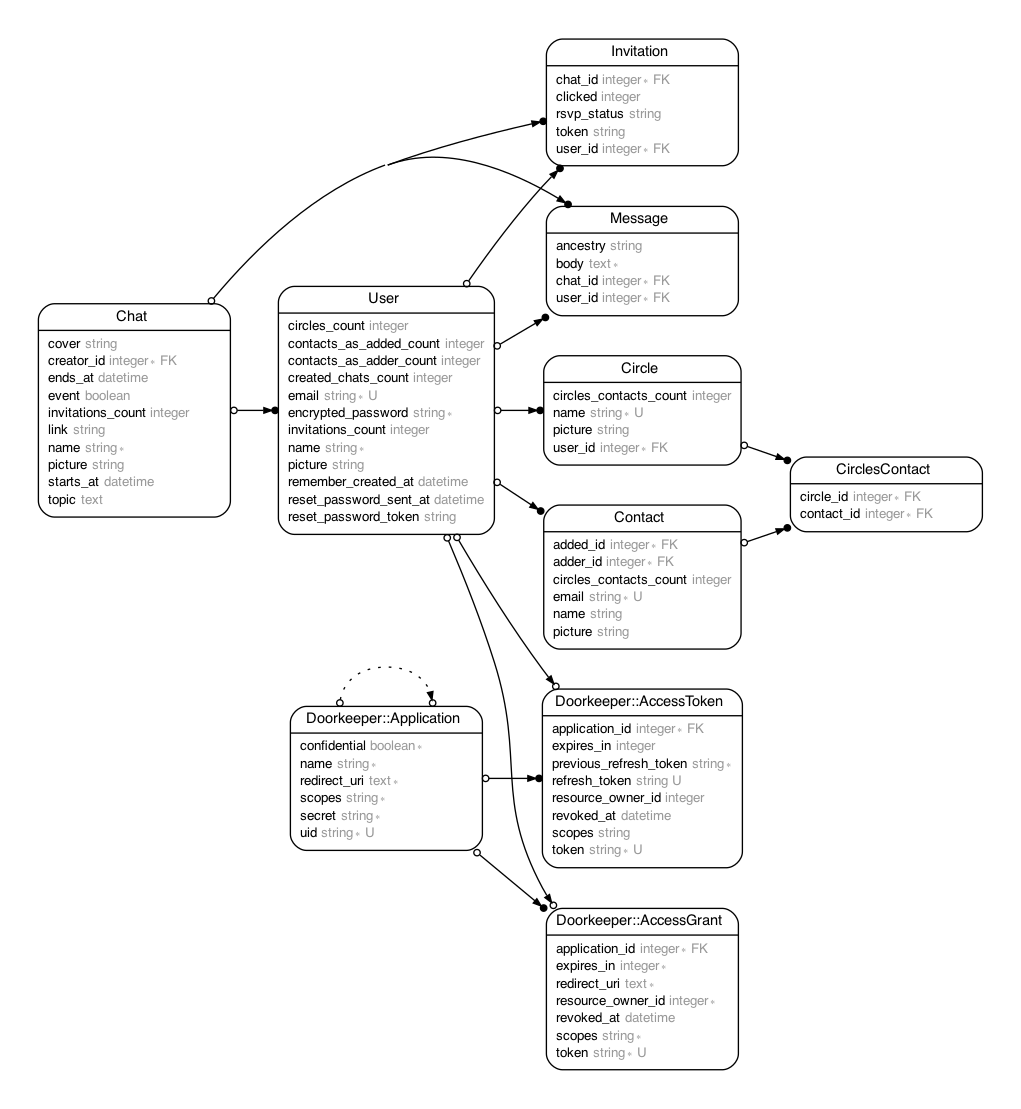
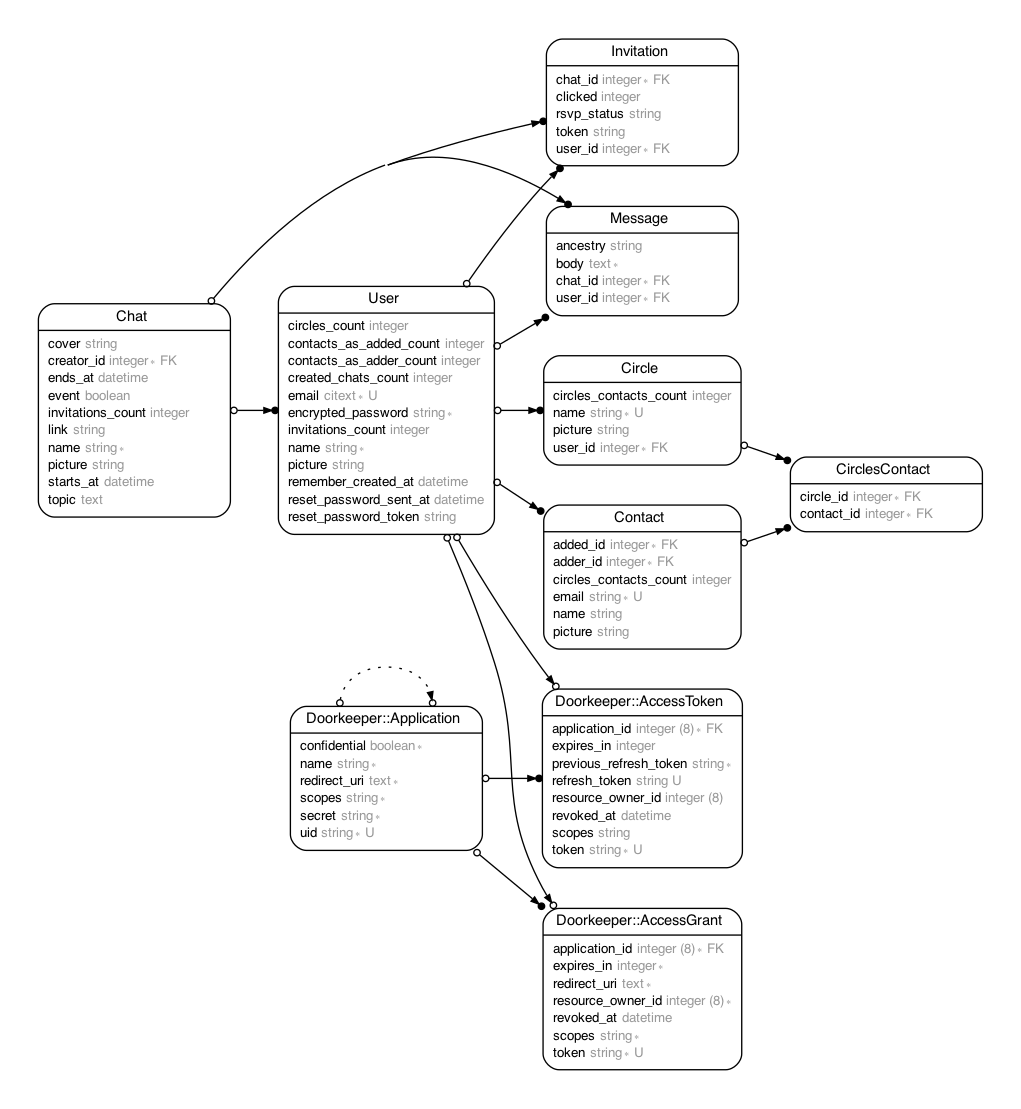
Make UUID default

Changed region(s): [[0.5162, 0.7971, 0.7287, 0.9504], [0.668, 0.6438, 0.6983, 0.6745]]

diff --git a/db/schema.rb b/db/schema.rb
@@ -12,13 +12,18 @@
 
 ActiveRecord::Schema.define(version: 2021_07_01_211548) do
 
+  # These are extensions that must be enabled in order to support this database
+  enable_extension "citext"
+  enable_extension "pgcrypto"
+  enable_extension "plpgsql"
+
   create_table "active_admin_comments", force: :cascade do |t|
     t.string "namespace"
     t.text "body"
     t.string "resource_type"
-    t.integer "resource_id"
+    t.bigint "resource_id"
     t.string "author_type"
-    t.integer "author_id"
+    t.bigint "author_id"
     t.datetime "created_at", precision: 6, null: false
     t.datetime "updated_at", precision: 6, null: false
     t.index ["author_type", "author_id"], name: "index_active_admin_comments_on_author_type_and_author_id"
@@ -110,8 +115,8 @@ ActiveRecord::Schema.define(version: 2021_07_01_211548) do
   end
 
   create_table "oauth_access_grants", force: :cascade do |t|
-    t.integer "resource_owner_id", null: false
-    t.integer "application_id", null: false
+    t.bigint "resource_owner_id", null: false
+    t.bigint "application_id", null: false
     t.string "token", null: false
     t.integer "expires_in", null: false
     t.text "redirect_uri", null: false
@@ -124,8 +129,8 @@ ActiveRecord::Schema.define(version: 2021_07_01_211548) do
   end
 
   create_table "oauth_access_tokens", force: :cascade do |t|
-    t.integer "resource_owner_id"
-    t.integer "application_id", null: false
+    t.bigint "resource_owner_id"
+    t.bigint "application_id", null: false
     t.string "token", null: false
     t.string "refresh_token"
     t.integer "expires_in"
@@ -156,7 +161,7 @@ ActiveRecord::Schema.define(version: 2021_07_01_211548) do
     t.string "picture"
     t.datetime "created_at", precision: 6, null: false
     t.datetime "updated_at", precision: 6, null: false
-    t.string "email", default: "", null: false
+    t.citext "email", default: "", null: false
     t.string "encrypted_password", default: "", null: false
     t.string "reset_password_token"
     t.datetime "reset_password_sent_at"

diff --git a/app/models/user.rb b/app/models/user.rb
@@ -2,12 +2,12 @@
 #
 # Table name: users
 #
-#  id                      :integer          not null, primary key
+#  id                      :bigint           not null, primary key
 #  circles_count           :integer
 #  contacts_as_added_count :integer
 #  contacts_as_adder_count :integer
 #  created_chats_count     :integer
-#  email                   :string           default(""), not null
+#  email                   :citext           default(""), not null
 #  encrypted_password      :string           default(""), not null
 #  invitations_count       :integer
 #  name                    :string

diff --git a/spec/models/user_spec.rb b/spec/models/user_spec.rb
@@ -2,12 +2,12 @@
 #
 # Table name: users
 #
-#  id                      :integer          not null, primary key
+#  id                      :bigint           not null, primary key
 #  circles_count           :integer
 #  contacts_as_added_count :integer
 #  contacts_as_adder_count :integer
 #  created_chats_count     :integer
-#  email                   :string           default(""), not null
+#  email                   :citext           default(""), not null
 #  encrypted_password      :string           default(""), not null
 #  invitations_count       :integer
 #  name                    :string

diff --git a/app/models/circles_contact.rb b/app/models/circles_contact.rb
@@ -2,7 +2,7 @@
 #
 # Table name: circles_contacts
 #
-#  id         :integer          not null, primary key
+#  id         :bigint           not null, primary key
 #  created_at :datetime         not null
 #  updated_at :datetime         not null
 #  circle_id  :integer          not null
@@ -15,8 +15,8 @@
 #
 # Foreign Keys
 #
-#  circle_id   (circle_id => circles.id)
-#  contact_id  (contact_id => contacts.id)
+#  fk_rails_...  (circle_id => circles.id)
+#  fk_rails_...  (contact_id => contacts.id)
 #
 class CirclesContact < ApplicationRecord
   # Direct associations

diff --git a/app/models/contact.rb b/app/models/contact.rb
@@ -2,7 +2,7 @@
 #
 # Table name: contacts
 #
-#  id                     :integer          not null, primary key
+#  id                     :bigint           not null, primary key
 #  circles_contacts_count :integer
 #  email                  :string
 #  name                   :string
@@ -19,8 +19,8 @@
 #
 # Foreign Keys
 #
-#  added_id  (added_id => users.id)
-#  adder_id  (adder_id => users.id)
+#  fk_rails_...  (added_id => users.id)
+#  fk_rails_...  (adder_id => users.id)
 #
 class Contact < ApplicationRecord
   # Direct associations

diff --git a/spec/models/circles_contact_spec.rb b/spec/models/circles_contact_spec.rb
@@ -2,7 +2,7 @@
 #
 # Table name: circles_contacts
 #
-#  id         :integer          not null, primary key
+#  id         :bigint           not null, primary key
 #  created_at :datetime         not null
 #  updated_at :datetime         not null
 #  circle_id  :integer          not null
@@ -15,8 +15,8 @@
 #
 # Foreign Keys
 #
-#  circle_id   (circle_id => circles.id)
-#  contact_id  (contact_id => contacts.id)
+#  fk_rails_...  (circle_id => circles.id)
+#  fk_rails_...  (contact_id => contacts.id)
 #
 require "rails_helper"
 

diff --git a/spec/models/contact_spec.rb b/spec/models/contact_spec.rb
@@ -2,7 +2,7 @@
 #
 # Table name: contacts
 #
-#  id                     :integer          not null, primary key
+#  id                     :bigint           not null, primary key
 #  circles_contacts_count :integer
 #  email                  :string
 #  name                   :string
@@ -19,8 +19,8 @@
 #
 # Foreign Keys
 #
-#  added_id  (added_id => users.id)
-#  adder_id  (adder_id => users.id)
+#  fk_rails_...  (added_id => users.id)
+#  fk_rails_...  (adder_id => users.id)
 #
 require "rails_helper"
 

diff --git a/app/models/message.rb b/app/models/message.rb
@@ -2,7 +2,7 @@
 #
 # Table name: messages
 #
-#  id         :integer          not null, primary key
+#  id         :bigint           not null, primary key
 #  ancestry   :string
 #  body       :text
 #  created_at :datetime         not null
@@ -17,8 +17,8 @@
 #
 # Foreign Keys
 #
-#  chat_id  (chat_id => chats.id)
-#  user_id  (user_id => users.id)
+#  fk_rails_...  (chat_id => chats.id)
+#  fk_rails_...  (user_id => users.id)
 #
 class Message < ApplicationRecord
   # Direct associations

diff --git a/app/models/invitation.rb b/app/models/invitation.rb
@@ -2,7 +2,7 @@
 #
 # Table name: invitations
 #
-#  id          :integer          not null, primary key
+#  id          :bigint           not null, primary key
 #  clicked     :integer
 #  rsvp_status :string
 #  token       :string
@@ -18,8 +18,8 @@
 #
 # Foreign Keys
 #
-#  chat_id  (chat_id => chats.id)
-#  user_id  (user_id => users.id)
+#  fk_rails_...  (chat_id => chats.id)
+#  fk_rails_...  (user_id => users.id)
 #
 class Invitation < ApplicationRecord
   # Direct associations

diff --git a/app/models/circle.rb b/app/models/circle.rb
@@ -2,7 +2,7 @@
 #
 # Table name: circles
 #
-#  id                     :integer          not null, primary key
+#  id                     :bigint           not null, primary key
 #  circles_contacts_count :integer
 #  name                   :string
 #  picture                :string
@@ -16,7 +16,7 @@
 #
 # Foreign Keys
 #
-#  user_id  (user_id => users.id)
+#  fk_rails_...  (user_id => users.id)
 #
 class Circle < ApplicationRecord
   # Direct associations

diff --git a/spec/models/message_spec.rb b/spec/models/message_spec.rb
@@ -2,7 +2,7 @@
 #
 # Table name: messages
 #
-#  id         :integer          not null, primary key
+#  id         :bigint           not null, primary key
 #  ancestry   :string
 #  body       :text
 #  created_at :datetime         not null
@@ -17,8 +17,8 @@
 #
 # Foreign Keys
 #
-#  chat_id  (chat_id => chats.id)
-#  user_id  (user_id => users.id)
+#  fk_rails_...  (chat_id => chats.id)
+#  fk_rails_...  (user_id => users.id)
 #
 require "rails_helper"
 

diff --git a/spec/models/invitation_spec.rb b/spec/models/invitation_spec.rb
@@ -2,7 +2,7 @@
 #
 # Table name: invitations
 #
-#  id          :integer          not null, primary key
+#  id          :bigint           not null, primary key
 #  clicked     :integer
 #  rsvp_status :string
 #  token       :string
@@ -18,8 +18,8 @@
 #
 # Foreign Keys
 #
-#  chat_id  (chat_id => chats.id)
-#  user_id  (user_id => users.id)
+#  fk_rails_...  (chat_id => chats.id)
+#  fk_rails_...  (user_id => users.id)
 #
 require "rails_helper"
 
